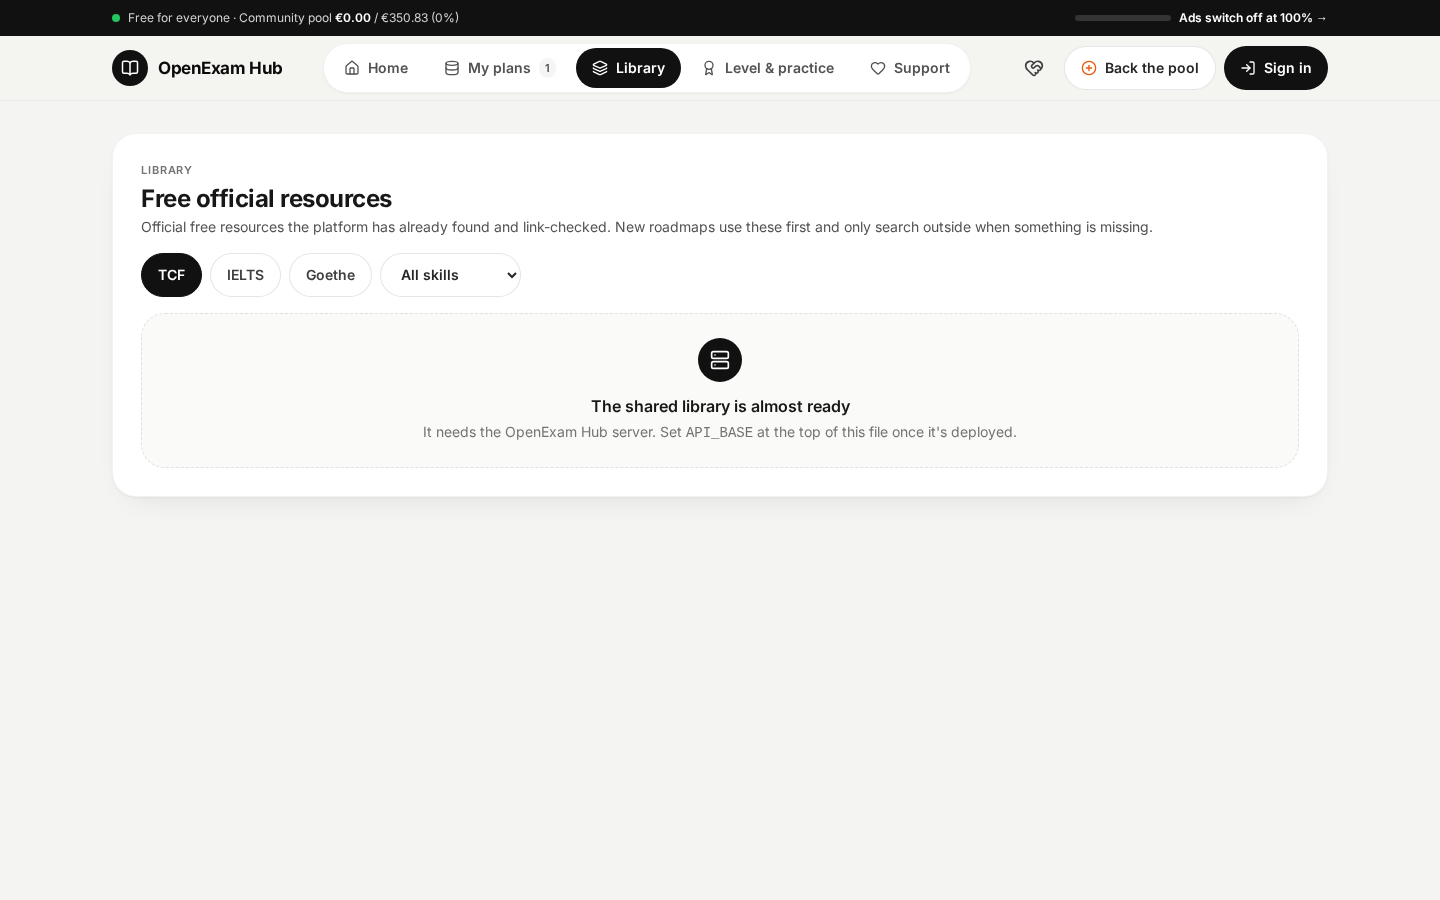
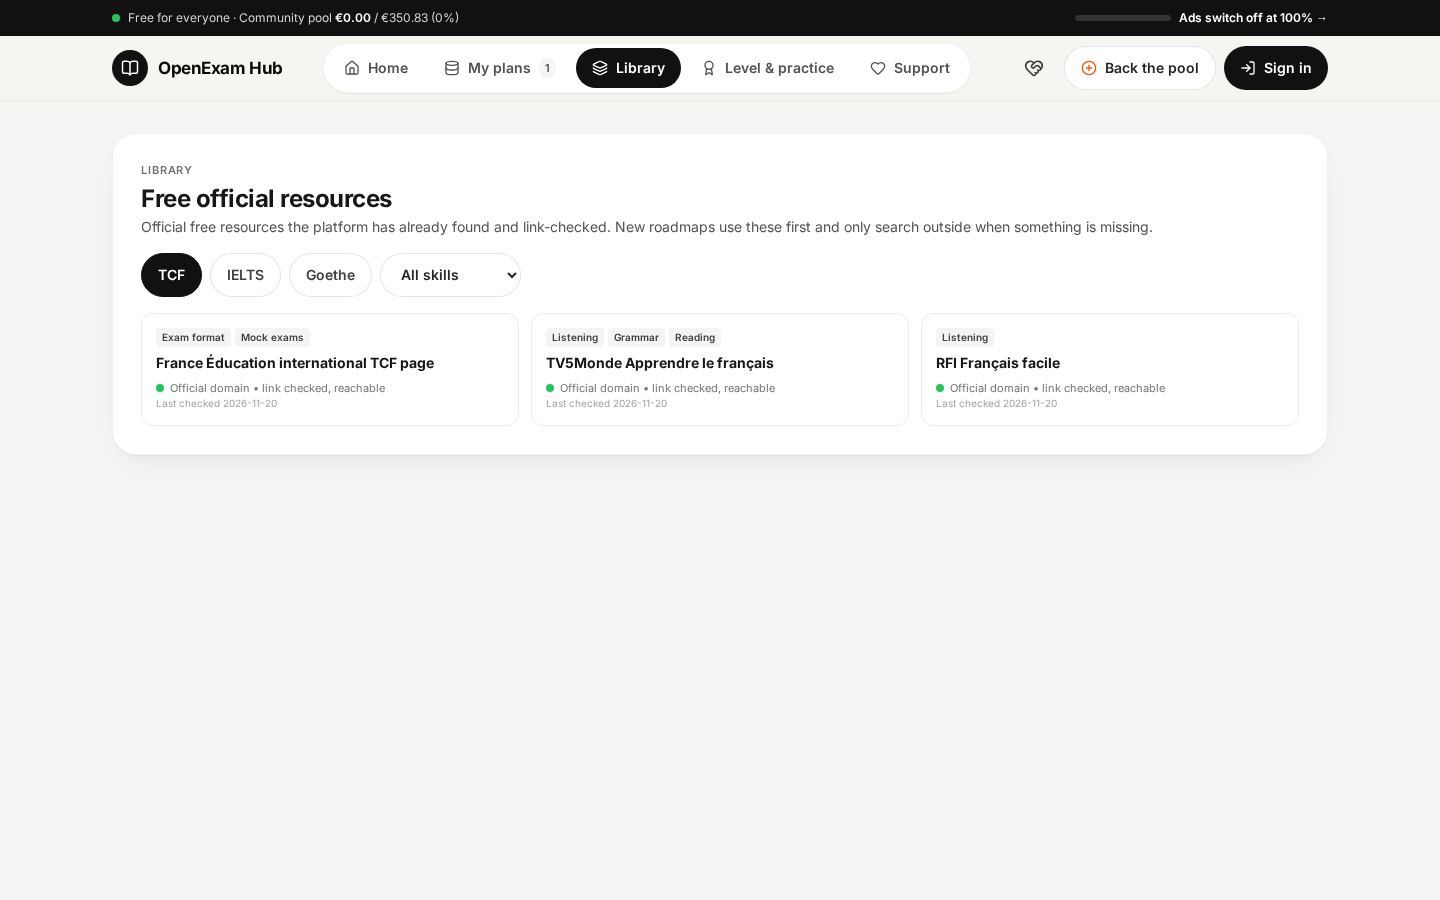
Docs: strengthen README, community files and screenshots
Add a feature-oriented README with live link, landing and planner
screenshots, funding transparency, and a clearer quick start. Add
CONTRIBUTING.md, a Contributor Covenant code of conduct, and issue
templates so new contributors have a path in.

Changed region(s): [[0.3125, 0.3733, 0.8125, 0.4978], [0.0938, 0.3733, 0.2812, 0.4667]]

diff --git a/README.md b/README.md
@@ -1,52 +1,97 @@
 # OpenExam Hub
 
-Free, official-source study roadmaps for language exams (TCF / DELF / DALF, IELTS, Goethe).
-Pick an exam, a target level and a number of days and get a day-by-day plan. Every link comes
-from an official exam board or public broadcaster, and the server checks it before you see it.
-No paywalls, no accounts needed (anonymous by default, sign in to sync).
+**Free study roadmaps for language exams, built from official free materials.**
 
-| Desktop | Mobile |
+[Live site](https://openexam-hub.vercel.app) · [Ko-fi](https://ko-fi.com/openexamhub) · [Open Collective](https://opencollective.com/openexam-hub) · License: [MIT](LICENSE)
+
+OpenExam Hub turns the free material that exam boards and public broadcasters already publish into a calm, day-by-day study plan. Choose an exam, a target level and how many days you have. Every resource link is checked before you see it.
+
+No account is required. Sign in only if you want your plans to sync across devices.
+
+The planner currently covers **TCF**, **IELTS** and **Goethe-Zertifikat** (levels A2–C1). More official-source exams are planned.
+
+## Screenshots
+
+| Landing | Planner |
 |---|---|
-| ![Home, desktop](docs/screenshots/desktop-home.png) | ![Home, mobile](docs/screenshots/mobile-home.png) |
-| ![Library, desktop](docs/screenshots/desktop-library.png) | ![Practice, mobile](docs/screenshots/mobile-practice.png) |
+| ![Landing page, desktop](docs/screenshots/desktop-landing.png) | ![Landing page, mobile](docs/screenshots/mobile-landing.png) |
+| ![Study planner, desktop](docs/screenshots/desktop-home.png) | ![Study planner, mobile](docs/screenshots/mobile-home.png) |
+| ![Official resource library, desktop](docs/screenshots/desktop-library.png) | |
 
-## What's inside
+## Features
 
-| Path | What it is |
-|---|---|
-| `index.html`, `src/` | Vite + React 18 + Tailwind 3 frontend. `src/App.jsx` is the whole app; `src/firebaseConfig.js` holds the public Firebase web config and the `VITE_*` overrides. |
-| `api/` | Vercel Node 24 serverless functions (8 entrypoints; Hobby allows 12): `generate-roadmap`, `diagnostic`, `coach`, `practice`, plus dispatchers `[route].js` (check-link, library, plan, stats, events), `admin/[action].js`, `webhooks/[provider].js`, `cron/[job].js`. Route handlers live in `lib/routes/`; add new endpoints to a dispatcher, not as new `api/` files. |
-| `lib/` | Server code: the orchestrator and agents (`lib/agents/`), the LLM client (`lib/llm.js`, any OpenAI-compatible gateway such as OmniRoute), the library store, ledger, link checker, and the pure algorithm layer (`lib/algo/`: ranking, scheduling, FSRS spaced repetition, adaptive placement, progress). |
-| `scripts/` | Unit suites, the end-to-end test, the mock LLM, the local API server, the library seeder and the v3 backfill (`migrate-v3.mjs`, dry run by default). |
-| `firestore.rules`, `firestore.indexes.json`, `firebase.json`, `.firebaserc` | Firestore security rules and indexes for the `openexam-hub` Firebase project. |
-| `vercel.json` | One Vercel project: Vite static build in `dist/`, functions in `api/`, SPA rewrite, daily 03:00 UTC link-recheck cron and 03:30 UTC rollup cron (usage/calibration folding, public stats, shelves). |
+- **Day-by-day plans** from official exam-board and public-broadcaster sources, not paid courses.
+- **Link-checked library.** Resources are stored with their official domain and a reachability check.
+- **Placement self-check** (unofficial) and extra practice when you want a short diagnostic before you plan.
+- **Progress coach** that can adjust the remaining days of a plan.
+- **Guest by default.** Anonymous use is enough to build and download a plan as Markdown or JSON.
+- **Funding transparency.** Donations and the ad-sunset threshold are shown on the site. A small number of ads may appear on the planner (never on the public landing page) until that goal is met; then ads switch off for everyone.
+- **Open source (MIT).**
 
-Docs: [DEPLOY.md](DEPLOY.md) (env vars, Vercel, Firestore, webhooks, OmniRoute),
-[CONTRACT.md](CONTRACT.md) (API contract), [ARCHITECTURE.md](ARCHITECTURE.md) (algorithms and data model).
+This is a study aid. It is not affiliated with France Éducation international, IELTS or the Goethe-Institut, and it is not an official placement test.
 
-## Run locally
+## Tech stack
+
+- **Frontend:** Vite, React 18, Tailwind CSS 3
+- **API:** Vercel serverless functions (Node 24)
+- **Data:** Firebase Auth and Cloud Firestore
+- **Planning:** a small algorithm layer (ranking, scheduling, FSRS-style spaced repetition, placement) plus an optional OpenAI-compatible LLM gateway
+
+Deeper docs: [DEPLOY.md](DEPLOY.md) (environment, Firebase, webhooks), [CONTRACT.md](CONTRACT.md) (API), [ARCHITECTURE.md](ARCHITECTURE.md) (algorithms and data model).
+
+## Quick start
+
+You need Node.js 24.
 
 ```bash
 npm install
-npm run dev:api      # API on http://127.0.0.1:3001 (needs FIREBASE_SERVICE_ACCOUNT or FIRESTORE_EMULATOR_HOST, and LLM_* env)
+npm run dev:api      # API on http://127.0.0.1:3001
 npm run dev          # frontend on http://localhost:5173, /api proxied to :3001
 ```
 
-Without a running API, build the UI in preview mode: `VITE_SERVER_ENABLED=false npm run dev`.
+`dev:api` needs either `FIRESTORE_EMULATOR_HOST` (see below) or a Firebase service account, plus optional `LLM_*` variables from [`.env.example`](.env.example). Secrets stay in the environment, never in the repo.
 
-## Test
+To explore the UI without a backend: `VITE_SERVER_ENABLED=false npm run dev`.
+
+## Tests
 
 ```bash
-npm test             # offline unit suites: orchestrator, learner agents, ledger, algorithms, v3 integration
-npm run e2e          # Firestore emulator (demo-openexam, needs Java 11+) + mock LLM + real HTTP to api/**
+npm test             # offline unit suites
+npm run e2e          # Firestore emulator (project demo-openexam, needs Java 11+) + mock LLM
 npm run build        # production frontend build into dist/
 ```
 
-`npm run e2e` refuses any project id that does not start with `demo-`, so tests never touch the real project.
+`npm run e2e` refuses any Firebase project id that does not start with `demo-`, so tests never touch production.
 
 ## Deploy
 
-1. Import this repo in Vercel (root directory `./`). `vercel.json` sets the framework, build and output.
-2. Add the server environment variables from [`.env.example`](.env.example) (see DEPLOY.md §1). Secrets go only into Vercel.
-3. `firebase deploy --only firestore:rules,firestore:indexes` from the repo root.
-4. Enable Anonymous, Email/Password and Google sign-in in Firebase Auth, and add the Vercel domain to Auth → Settings → Authorized domains.
+See [DEPLOY.md](DEPLOY.md) for the full checklist. In short: import this repo on Vercel, set the environment variables from `.env.example`, deploy Firestore rules and indexes, and add the production domain to Firebase Auth authorized domains.
+
+## Contributing
+
+Contributions are welcome, including official-source exam resources, accessibility fixes and documentation. Please read [CONTRIBUTING.md](CONTRIBUTING.md) and the [Code of Conduct](CODE_OF_CONDUCT.md). Issues labelled [`good first issue`](https://github.com/JadissEL/openexam-hub/issues?q=is%3Aissue+is%3Aopen+label%3A%22good+first+issue%22) are a good place to start.
+
+## Funding and ads
+
+OpenExam Hub is free to use. Running costs are meant to be covered by donations and, until a publicly tracked funding goal is reached, by a few ads on the planner only.
+
+- [Ko-fi](https://ko-fi.com/openexamhub) (one-off tips)
+- [Open Collective](https://opencollective.com/openexam-hub) (fiscal host application pending)
+- GitHub Sponsors (pending, after the fiscal host on the Sponsors profile is corrected)
+
+When the goal is met, the site is intended to become ad-free. Figures on the live site are the source of truth; this README does not invent earnings or user counts.
+
+## License
+
+[MIT](LICENSE) © 2026 Jadiss EL ANTAKI
+
+## Repository layout
+
+| Path | What it is |
+|---|---|
+| `index.html`, `src/` | Vite + React frontend. The planner lives in `src/App.jsx`; the public landing page lives in `src/landing/`. |
+| `api/` | Vercel serverless entrypoints. Route handlers live in `lib/routes/`; add new endpoints to a dispatcher, not as new `api/` files. |
+| `lib/` | Server code: orchestrator, agents, LLM client, library store, ledger, link checker, and `lib/algo/`. |
+| `scripts/` | Unit suites, end-to-end test, mock LLM, local API server, library seeder. |
+| `firestore.rules`, `firestore.indexes.json`, `firebase.json` | Firestore rules and indexes for the `openexam-hub` Firebase project. |
+| `vercel.json` | Static build, functions, SPA rewrite, and scheduled crons. |

diff --git a/CODE_OF_CONDUCT.md b/CODE_OF_CONDUCT.md
@@ -1,0 +1,84 @@
+# Contributor Covenant Code of Conduct
+
+## Our Pledge
+
+We as members, contributors, and leaders pledge to make participation in our community a harassment-free experience for everyone, regardless of age, body size, visible or invisible disability, ethnicity, sex characteristics, gender identity and expression, level of experience, education, socio-economic status, nationality, personal appearance, race, caste, color, religion, or sexual identity and orientation.
+
+We pledge to act and interact in ways that contribute to an open, welcoming, diverse, inclusive, and healthy community.
+
+## Our Standards
+
+Examples of behavior that contributes to a positive environment for our community include:
+
+* Demonstrating empathy and kindness toward other people
+* Being respectful of differing opinions, viewpoints, and experiences
+* Giving and gracefully accepting constructive feedback
+* Accepting responsibility and apologizing to those affected by our mistakes, and learning from the experience
+* Focusing on what is best not just for us as individuals, but for the overall community
+
+Examples of unacceptable behavior include:
+
+* The use of sexualized language or imagery, and sexual attention or advances of any kind
+* Trolling, insulting or derogatory comments, and personal or political attacks
+* Public or private harassment
+* Publishing others' private information, such as a physical or email address, without their explicit permission
+* Other conduct which could reasonably be considered inappropriate in a professional setting
+
+## Enforcement Responsibilities
+
+Community leaders are responsible for clarifying and enforcing our standards of acceptable behavior and will take appropriate and fair corrective action in response to any behavior that they deem inappropriate, threatening, offensive, or harmful.
+
+Community leaders have the right and responsibility to remove, edit, or reject comments, commits, code, wiki edits, issues, and other contributions that are not aligned to this Code of Conduct, and will communicate reasons for moderation decisions when appropriate.
+
+## Scope
+
+This Code of Conduct applies within all community spaces, and also applies when an individual is officially representing the community in public spaces. Examples of representing our community include using an official e-mail address, posting via an official social media account, or acting as an appointed representative at an online or offline event.
+
+## Enforcement
+
+Instances of abusive, harassing, or otherwise unacceptable behavior may be reported to the community leaders responsible for enforcement at [elantaki.dijadiss@gmail.com](mailto:elantaki.dijadiss@gmail.com). All complaints will be reviewed and investigated promptly and fairly.
+
+All community leaders are obligated to respect the privacy and security of the reporter of any incident.
+
+## Enforcement Guidelines
+
+Community leaders will follow these Community Impact Guidelines in determining the consequences for any action they deem in violation of this Code of Conduct:
+
+### 1. Correction
+
+**Community Impact**: Use of inappropriate language or other behavior deemed unprofessional or unwelcome in the community.
+
+**Consequence**: A private, written warning from community leaders, providing clarity around the nature of the violation and an explanation of why the behavior was inappropriate. A public apology may be requested.
+
+### 2. Warning
+
+**Community Impact**: A violation through a single incident or series of actions.
+
+**Consequence**: A warning with consequences for continued behavior. No interaction with the people involved, including unsolicited interaction with those enforcing the Code of Conduct, for a specified period of time. This includes avoiding interactions in community spaces as well as external channels like social media. Violating these terms may lead to a temporary or permanent ban.
+
+### 3. Temporary Ban
+
+**Community Impact**: A serious violation of community standards, including sustained inappropriate behavior.
+
+**Consequence**: A temporary ban from any sort of interaction or public communication with the community for a specified period of time. No public or private interaction with the people involved, including unsolicited interaction with those enforcing the Code of Conduct, is allowed during this period. Violating these terms may lead to a permanent ban.
+
+### 4. Permanent Ban
+
+**Community Impact**: Demonstrating a pattern of violation of community standards, including sustained inappropriate behavior, harassment of an individual, or aggression toward or disparagement of classes of individuals.
+
+**Consequence**: A permanent ban from any sort of public interaction within the community.
+
+## Attribution
+
+This Code of Conduct is adapted from the [Contributor Covenant][homepage], version 2.1, available at [https://www.contributor-covenant.org/version/2/1/code_of_conduct.html][v2.1].
+
+Community Impact Guidelines were inspired by [Mozilla's code of conduct enforcement ladder][Mozilla CoC].
+
+For answers to common questions about this code of conduct, see the FAQ at [https://www.contributor-covenant.org/faq][FAQ]. Translations are available at [https://www.contributor-covenant.org/translations][translations].
+
+[homepage]: https://www.contributor-covenant.org
+[v2.1]: https://www.contributor-covenant.org/version/2/1/code_of_conduct.html
+[Mozilla CoC]: https://github.com/mozilla/diversity
+[FAQ]: https://www.contributor-covenant.org/faq
+[translations]: https://www.contributor-covenant.org/translations
+

diff --git a/CONTRIBUTING.md b/CONTRIBUTING.md
@@ -1,0 +1,68 @@
+# Contributing to OpenExam Hub
+
+Thank you for wanting to help. OpenExam Hub is a free, MIT-licensed study-roadmap tool. The useful work is often unglamorous: checking official links, fixing accessibility, adding a well-sourced exam, or making the docs clearer.
+
+Please also read the [Code of Conduct](CODE_OF_CONDUCT.md).
+
+## If you are new here
+
+1. Try the live site: [https://openexam-hub.vercel.app](https://openexam-hub.vercel.app).
+2. Browse [open issues](https://github.com/JadissEL/openexam-hub/issues), especially those labelled [`good first issue`](https://github.com/JadissEL/openexam-hub/issues?q=is%3Aissue+is%3Aopen+label%3A%22good+first+issue%22).
+3. Comment on the issue you want to take so two people do not do the same work.
+
+## Development setup
+
+You need Node.js 24. For the end-to-end test you also need Java 11+ (Firestore emulator).
+
+```bash
+git clone https://github.com/JadissEL/openexam-hub.git
+cd openexam-hub
+npm install
+npm run dev:api      # API on http://127.0.0.1:3001
+npm run dev          # frontend on http://localhost:5173, /api proxied to :3001
+```
+
+Copy [`.env.example`](.env.example) and fill in only what you need. Never commit secrets, service-account keys or API tokens.
+
+To run the API against the local emulator instead of a cloud project:
+
+```bash
+npm run emulator     # Firebase project id must stay demo-openexam
+# in another terminal, point the API at the emulator (see .env.example)
+npm run dev:api
+```
+
+Do **not** write test data to the production `openexam-hub` Firebase project. `npm run e2e` will refuse any project id that does not start with `demo-`.
+
+```bash
+npm test             # offline unit suites
+npm run e2e          # emulator + mock LLM + real HTTP to api/**
+npm run build
+```
+
+## What makes a good contribution
+
+- **Official resources only.** Library links should come from exam boards, official partners or public broadcasters, on their official domains. No scraped paywalled courses, no unofficial dumps, no invented “official” URLs.
+- **No fabricated stats or testimonials** in the UI or the docs.
+- **Accessibility matters.** If you change the UI, keep labels, dialog names, keyboard access and contrast usable. Treat accessibility bugs as bugs.
+- **Keep ads off the landing page.** Ads, if any, belong on the planner/dashboard and must stay disclosed.
+- **Small, focused pull requests** are easier to review than large mixed ones.
+
+If you want to add a new exam, open an issue first (there is a “Official resource” template). Describe the exam, the official source, and the free material you want to include.
+
+## Pull requests
+
+- Branch from `main` and open a PR against `main`.
+- Explain what changed and how you tested it (`npm test`, `npm run e2e`, or a short manual note).
+- Do not include secrets, personal data, or production credentials.
+- If your change affects the API, update [CONTRACT.md](CONTRACT.md) when the behaviour changes.
+
+## Security and production access
+
+If you think you have found a security issue, please email [elantaki.dijadiss@gmail.com](mailto:elantaki.dijadiss@gmail.com) rather than opening a public issue.
+
+Production deploys, webhook secrets and Firebase admin access stay with the maintainer.
+
+## License
+
+By contributing, you agree that your contribution is licensed under the [MIT License](LICENSE).
